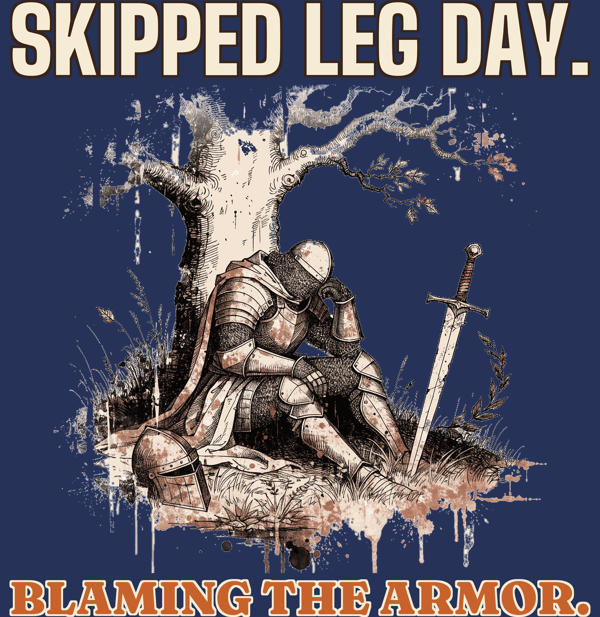
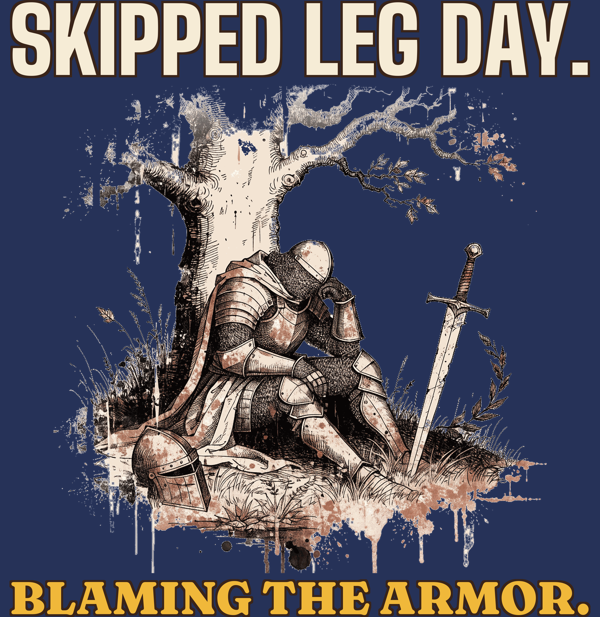
[C] review 448 (redo)
Claude-Session: https://claude.ai/code/session_01CCHcDj8LcJJ8qUPtKE3cvn

Changed region(s): [[0.0, 0.9238, 0.99, 1.0]]

diff --git a/designs/c495/make.py b/designs/c495/make.py
@@ -24,7 +24,7 @@ W=src.width; art=src.crop((0,356,W,3141))
 import sys
 NV=len(sys.argv)>1
 h1=line("SKIPPED LEG DAY.",'BigShouldersDisplay[wght].ttf',0.97,W,CREAM if NV else BROWN,BROWN if NV else CREAM,kw=27,var=[900])
-h2=line("BLAMING THE ARMOR.",'Fraunces[SOFT,WONK,opsz,wght].ttf',0.97,W,RUST,CREAM,kw=23,var=[9,900,40,1])
+h2=line("BLAMING THE ARMOR.",'Fraunces[SOFT,WONK,opsz,wght].ttf',0.97,W,(240,184,58,255) if NV else RUST,BROWN if NV else CREAM,kw=23,var=[9,900,40,1])
 print('h1',h1.size,'h2',h2.size,'ratio h2/h1',h2.height/h1.height)
 g=34; H=h1.height+g+art.height+g+h2.height
 out=Image.new('RGBA',(W,H),(0,0,0,0))

diff --git a/docs/pipeline/448-wizard-zip-hoodie-grill-wizard.md b/docs/pipeline/448-wizard-zip-hoodie-grill-wizard.md
@@ -1,4 +1,4 @@
-status: BUILDING [C] 2026-10-20 06:05
+status: REVIEW
 lane: C
 type: new
 id: 448
@@ -32,3 +32,4 @@ kd: 17
 - 2026-10-18 17:22 UTC director: QUALITY RESET grade C (new line + type), REDO. The product stays ACTIVE (same handle, URL, title keyword). 1. Line (R3.12, quality-reset 'Lines'): "GRILL WIZARD": Noun label describing the picture, no joke. Write 5 candidates, keep the one a stranger laughs at in 3 seconds without backstory; kill lines that only describe the picture; if none of the 5 is funny, PARK it. 2. Quality reset type bar (docs/backlog/quality-reset.md, 'The new bar'): headline at least 90% of the art width, heavy, colors pulled from the art; second line at least 45% of the headline's height, never a thin script on a dark or mid garment; use the lettering as a shape (arch, stacked lockup, words breaking into the art), not a plain bar above and a script line below; no font used on more than 1 in 6 of the last 30 designs. 3. Keep the art if it carries the new line, else one new illustration (R4/R5). New print means a new cover per R6.10, copy line one rewritten for the new joke (R8.3), and a fresh review sheet (R7.7). While quality-reset.md says PAUSED, only lane A builds, and only the samples step 2 names.
 - 2026-10-20 04:53 UTC builder [C]: REDO new line + type (grade C). 5 candidates: "ABRA-KEBAB-RA! / GRILL WIZARD" (kept: a pun a stranger gets in 3 seconds, the old label stays as the sub-line), "I DON'T BURN BURGERS. I CAST THEM.", "SEASONED BY MAGIC", "MEDIUM RARE IS A DARK ART", "PATTY-CAKE, PATTY-CAKE, SPELL-CAST MAN". Same wizard art, scaled 86% to fit the back with the two lines. ABRA-KEBAB-RA! Alfa Slab One 97% of the art width; GRILL WIZARD Fraunces Black 80% width, red with cream keyline (92% of the headline's height). Light-file (R5.3.8): Ash file 1090170117 has the headline navy with a cream keyline; Navy file 1090170188 has it cream with a navy keyline (docs/print-files/448-v2-abra-ash.png / -navy.png); logged: light file Ash on file 1090170117, headline fill navy. Back 2808 x 3688, BW 1560 BT 225, chest hat file 1088436124 unchanged, 12/12 relinked per color. Ash back mockup replaced in place; Navy back mockup added as a gallery image. Copy, story and SEO rewritten for the new line. Plain product shot. fal $0.
 - 2026-10-20 05:16 UTC director: REDO from docs/review/448.jpg (product stays ACTIVE). 1. R3.1: ABRA-KEBAB-RA! is a sound-alike pun with no second meaning (kebab/cadabra), out by default. From your own list, MEDIUM RARE IS A DARK ART. is the strongest; or write 5 more in the R3.13 voice and compare side by side with 3 references. 2. R5.3.5: GRILL WIZARD in red on Navy is low contrast on the mockup; whatever the second line is, use cream or gold on Navy.
+- 2026-10-20 06:18 UTC builder [C]: REDO round 2 per the director's 05:16 note (R3.1 sound-alike out; R5.3.5 contrast on Navy). Line: "MEDIUM RARE / IS A DARK ART." (the director's pick from my earlier list; checked next to Sorry About Your Windshield. and Not Cheating. Improving My Lie.: a grill-master's deadpan, wearer in on it; other 4 candidates this round: "I DON'T BURN BURGERS. I CAST THEM.", "SEASONED BY MAGIC", "THE TONGS CHOSE ME.", "SMOKE SIGNALS FROM A WIZARD"). Same wizard art at 86%. MEDIUM RARE Alfa Slab One 97% of the art width; IS A DARK ART. Fraunces Black 90% width (85% of the headline's height). Navy file 1090201148: headline cream, second line gold (#f0b83a) with a navy keyline (no red on Navy); Ash file 1090201098: headline navy, second line red with cream keyline; docs/print-files/448-v3-rare-ash.png / -navy.png. Back 2808 x 3747, BW 1560 BT 225, chest hat file 1088436124 unchanged, 12/12 relinked per color. Both back mockups replaced in place (Navy back image alt updated). Copy, story and SEO rewritten. Plain product shot. fal $0.

diff --git a/docs/intake-log.md b/docs/intake-log.md
@@ -11,6 +11,7 @@ RUNNING lane B since 2026-10-20 05:30 UTC
 2026-10-20 05:53 UTC — [E] Builder run: redid #438 Women's Panda zip hoodie (line + type: ENDANGERED / MORNING PERSON., new sleepy-panda-in-bed art, Bowlby One, Navy + Ash dark-ink file, new head chest copy, 12/12 synced). REVIEW. fal $0.04.
 2026-10-20 05:57 UTC — [B] Builder run: redid #473 Unisex Embroidered hoodie (line + type: CIRCLE / BACK / NEVER., new stacked lettering in thread, Sand #333366 + Navy #FFFFFF, 12/12 synced). REVIEW. fal $0.
 RUNNING lane C since 2026-10-20 05:30 UTC
+2026-10-20 06:18 UTC — [C] Builder run: redid #448 Men's Wizard zip hoodie round 2 (director note: MEDIUM RARE / IS A DARK ART., gold on Navy, Alfa Slab + Fraunces, Ash file 1090201098 + Navy file 1090201148, 12/12 relinked, back mockups replaced, copy + SEO updated). REVIEW. fal $0.
 2026-10-20 06:04 UTC — [C] Builder run: redid #415 Women's Cherry hoodie (new line + type: SWEET OUTSIDE. / TOUGH PIT INSIDE., Fraunces Black + Alfa Slab, same cherry/bow art, Sand file 1090196346 + Navy file 1090196422, FW 1500 TOP 0, 12/12 relinked, 2 fronts replaced in place, copy + SEO updated, plain product shot). REVIEW. fal $0.
 2026-10-20 05:45 UTC — [H] Helper run: Telegram inbox empty (getUpdates returned 0 updates, nothing to consume). Audit 608 products: 0 errors, 30 warnings left alone (polish); committed docs/cohesion-audit.md and .json (npm ci first, esbuild was missing). Category check: 0 products without a Shopify category. Site check: #649, #356, #326 all 200 (first try used filename slugs, which are not the handles; real handles are in each pipeline file). Stuck-work check: nothing BUILDING over 3h (#332 claimed 05:44 by lane A, #341 05:41 by lane C). Announcement bar already on the holiday line. Daily summary not due (before 12:00 UTC). Lock released.
 2026-10-20 05:52 UTC — [C] Builder run: redid #341 Women's Axolotl oversized hoodie (new line + type: I'M FINE. / JUST A LITTLE RAIN., Fraunces Black + Bevan, same teacup art, Dust file 1090192013 + Navy file 1090192095, FW 1500 TOP 30, 12/12 relinked, 2 fronts replaced in place, copy + SEO updated, plain product shot). REVIEW. fal $0.
